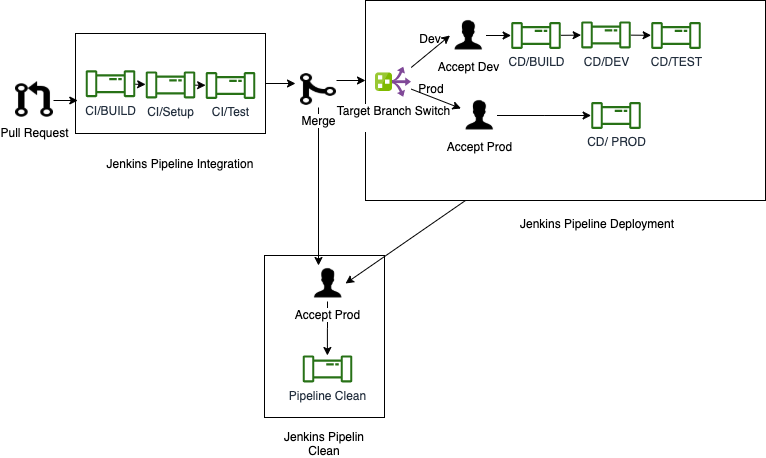
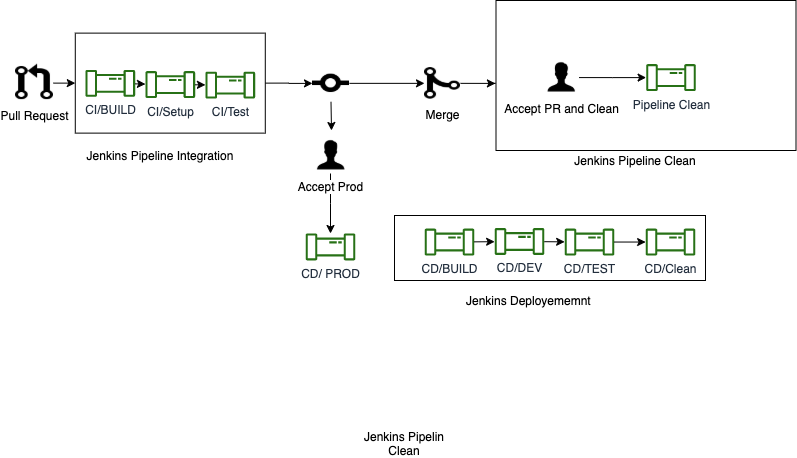
Pipeline -------- 1. Automate branch action asset cleanup 2. Update PIPELINE.md with new pipeline flow ------

diff --git a/PIPELINE.md b/PIPELINE.md
@@ -2,7 +2,7 @@
 
 Invasives BC automatic Jenkins pipeline check code integrity (Continuous integration) and perform deployment to various environment (Continuous deployment).  
   
-## Steps
+## Pull Request with Continuous Integration
 
 * Create Pull Request in GitHub.
 
@@ -10,11 +10,21 @@ Invasives BC automatic Jenkins pipeline check code integrity (Continuous integra
 
 * Merge Pull Request in GitHub.
 
-* Accept Dev/Test Deployment in Jenkins.
+* Accept cleaning of PR related assets of OpenShift in Jenkins **Acceptance Pull Request** stage.
 
-* Accept Prod Deployment in Jenkins.
+## Branch Action for Continuous Deployment
 
-* Accept cleaning of PR related assets from OpenShift.
+Any changes like Push or Merge to dev branch triggers a build and deployment to Dev/Test Environment.
+
+## Continuous Production Deployment
+
+* Create Pull Request with target branch as **prod** (conventionally source branch will be __dev__).
+
+* Automatic pipeline continuous integration stages (Build and Test) will invoke. CI stages check integrity of new code, must finish with success.
+
+* Manually accept Prod deployment in Jenkins **Deploy (PROD) API/APP [CD]** stage.
+
+* Accept cleaning of PR related assets of OpenShift in Jenkins **Acceptance Pull Request** stage.
 
 ![FlowDiagram](documentation/images/Pipeline.png)
 
@@ -86,6 +96,22 @@ This is a manually accepted stage. This stage deploy with creation of Pull Reque
 6. Deploy APP.
 
 __**N.B: Standard process of production deployment is to create a Pull Request with dev as source branch and prod as target branch**__
+
+### Acceptance Branch
+
+This is automatic pipeline stage to clean unused asset for Branch action.
+
+1. Clean API build config from tool namespace.
+2. Clean APP build config from tool namespace.
+
+### Acceptance Pull Request
+
+This is manually accepted step to clean all PR related assets.
+
+1. Clean API build config from tool namespace.
+2. Clean APP build config from tool namespace.
+3. Clean Pull Request related API deployment.
+4. Clean Pull Request related APP deployment
 
 ## Note for Pull Request Owner
 
